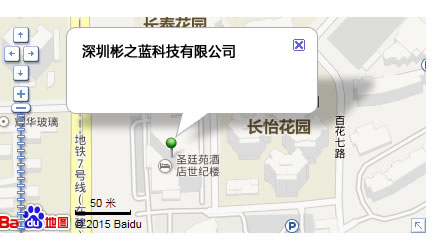
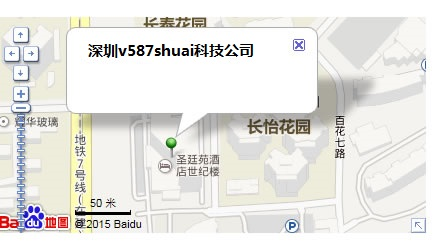
new_m_log

diff --git a/about.html b/about.html
@@ -49,7 +49,7 @@
         <dl class="clearfix">
         	<dt><img src="Assets/upload/pic5.jpg" alt="彬之蓝"/></dt>
             <dd>
-            	<p>深圳市彬之蓝科技有限公司创立于2007年，是一家集生产、开发，销售为一体的企业。专业研发和生产各种手机配件，蓝牙音响，移动电源类等，产品依靠专业水准的创新设计、优良的产品品质，值得信赖的服务，积极与客户沟通，赢得了广大客户的支持与好评，产品深受国内外市场的欢迎。</p>
+            	<p>深圳市v587shuai科技有限公司创立于2007年，是一家集生产、开发，销售为一体的企业。专业研发和生产各种手机配件，蓝牙音响，移动电源类等，产品依靠专业水准的创新设计、优良的产品品质，值得信赖的服务，积极与客户沟通，赢得了广大客户的支持与好评，产品深受国内外市场的欢迎。</p>
                 <p>质量—我们建立了科学完善的质量管理体系。服务—我们与时俱进，不断提升员工综合素质，科技创新，用心想客户所想，做客户所做，我司的质量方针：质量第一，客户至上，精益求精，持续改进。</p>
                 <p>诚信—我们本着讲求信誉、恪守承诺的原则与客户共同发展。我们将全力配合您的步伐，不断超越自我，相信在您的成就中一定能实现我们的美好未来！拥有完整、科学的质量管理体系，深圳市彬之蓝科技有限公司的诚信、实力和产品质量获得业界的认可。欢迎各界朋友莅临参观、指导和业务洽谈.
 </p>
@@ -59,7 +59,7 @@
 </div>
 <div class="space_hx">&nbsp;</div>
 <div class="foot">
-	版权所有：深圳彬之蓝科技有限公司
+	版权所有：深圳v587shuai科技有限公司
     <span>粤ICP备12223333号-1</span>
 </div>
 <script language="javascript">

diff --git a/contact.html b/contact.html
@@ -49,11 +49,11 @@
         <dl class="clearfix">
         	<dt><img src="Assets/upload/map.jpg" alt=""/></dt>
             <dd>
-            	<p>深圳彬之蓝科技有限公司 ： 固话：0755-89486485 13717086812</p>
-                <p>邮件：bzl_min@163.com</p>
-                <p>传真：0755-89486485 </p>
-                <p>Q Q：0755-89486485</p>
-                <p>地址：深圳宝安福永新田大道与107国道交汇处江氏大厦8楼8B2</p>
+            	<p>深圳v587shuai科技有限公司 ： 固话：0755-88888888  </p>
+                <p>邮件：v587shuai@163.com</p>
+                <p>传真：0755-88888888 </p>
+                <p>Q Q：0755-88888888</p>
+                <p>地址：深圳南山科技园</p>
             </dd>
         </dl>
     </div>
